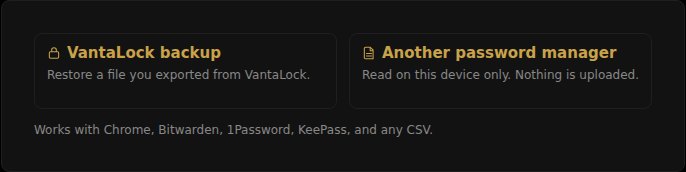
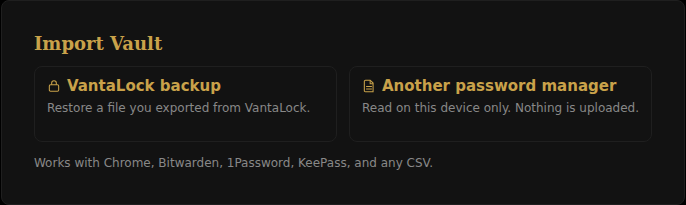
Release VantaLock v1.1.74

diff --git a/tests/electron.e2e.test.js b/tests/electron.e2e.test.js
@@ -21,6 +21,9 @@ const canRunElectronE2E = process.env.RUN_ELECTRON_E2E === '1' &&
       const page = await app.firstWindow();
       const pageErrors = [];
       page.on('pageerror', error => pageErrors.push(error.message));
+      page.on('console', message => {
+        if (message.type() === 'error') pageErrors.push(message.text());
+      });
       await page.waitForSelector('#get-started-btn');
       await page.evaluate(() => {
         localStorage.clear();
@@ -39,6 +42,12 @@ const canRunElectronE2E = process.env.RUN_ELECTRON_E2E === '1' &&
       });
 
       const masterPassword = 'E2EMasterPassword!2026';
+      await page.locator('#create-mp-btn').click();
+      await page.waitForFunction(() =>
+        document.getElementById('mp-error-text')?.style.display === 'block'
+      );
+      expect(await page.locator('#mp-error-text').textContent())
+        .toBe('Please enter a master password.');
       await page.locator('#mp-input').fill(masterPassword);
       await page.locator('#mp-confirm-input').fill(masterPassword);
       await page.locator('#create-mp-btn').click();
@@ -595,6 +604,9 @@ const canRunElectronE2E = process.env.RUN_ELECTRON_E2E === '1' &&
       });
       const reopenedPage = await app.firstWindow();
       reopenedPage.on('pageerror', error => pageErrors.push(error.message));
+      reopenedPage.on('console', message => {
+        if (message.type() === 'error') pageErrors.push(message.text());
+      });
       await reopenedPage.waitForFunction(() => {
         const splash = document.getElementById('splash-overlay');
         const unlock = document.getElementById('unlock-vault-view');
@@ -608,6 +620,14 @@ const canRunElectronE2E = process.env.RUN_ELECTRON_E2E === '1' &&
         const dashboard = document.getElementById('dashboard-view-container');
         return dashboard && !dashboard.classList.contains('hidden');
       });
+      const unlockAnimationSize = await reopenedPage.evaluate(() => {
+        const container = document.getElementById('padlock-anim-container');
+        return {
+          width: container ? container.style.width : '',
+          overlayPresent: Boolean(document.getElementById('unlock-padlock-anim-overlay'))
+        };
+      });
+      expect(unlockAnimationSize).toMatchObject({ width: '160px', overlayPresent: true });
       await reopenedPage.locator('[data-vault="personal"]').click();
       await reopenedPage.evaluate(() => { window.activeVaultType = 'decoy'; });
       await reopenedPage.locator('[data-tool="import"]').evaluate(button => button.click());
@@ -616,7 +636,13 @@ const canRunElectronE2E = process.env.RUN_ELECTRON_E2E === '1' &&
       await reopenedPage.evaluate(() => { window.activeVaultType = 'real'; });
       await reopenedPage.locator('[data-vault="personal"]').click();
       await reopenedPage.locator('[data-tool="import"]').click();
+      expect(await reopenedPage.locator('.external-import-card .setup-title').textContent())
+        .toBe('Import Vault');
+      expect(await reopenedPage.locator('.external-import-card .setup-title')
+        .evaluate(element => getComputedStyle(element).fontSize)).toBe('18px');
       expect(await reopenedPage.locator('.import-choice-card').count()).toBe(2);
+      await reopenedPage.locator('.external-import-card')
+        .screenshot({ path: path.join(workspaceRoot, 'proof_assets/screenshot_import_landing_cards.png') });
       await reopenedPage.locator('[data-import-choice="external"]').click();
       const csvFile = {
         name: 'synthetic-passwords.csv',
@@ -858,6 +884,46 @@ const canRunElectronE2E = process.env.RUN_ELECTRON_E2E === '1' &&
       expect(await reopenedPage.evaluate(() => JSON.parse(
         localStorage.getItem('vantalock_entries_store') || '[]'
       ))).toHaveLength(entriesBeforeImport.length + 2);
+      const backupPath = path.join(profileDirectory, 'roundtrip-backup.json');
+      await app.evaluate(({ dialog }, filePath) => {
+        dialog.showSaveDialog = async () => ({ canceled: false, filePath });
+      }, backupPath);
+      await reopenedPage.evaluate(password => {
+        window.prompt = () => password;
+      }, masterPassword);
+      await reopenedPage.locator('[data-tool="export"]').click();
+      await reopenedPage.locator('#export-json-btn').click();
+      await reopenedPage.waitForFunction(() =>
+        document.getElementById('export-status-msg')?.textContent.includes('exported successfully')
+      );
+      const backupText = fs.readFileSync(backupPath, 'utf8');
+      expect(backupText).not.toContain('synthetic-secret');
+      expect(JSON.parse(backupText)).toMatchObject({
+        cipher: 'AES-256-GCM',
+        kdf: 'Argon2id'
+      });
+      const entriesBeforeBackupImport = await reopenedPage.evaluate(() => JSON.parse(
+        localStorage.getItem('vantalock_entries_store') || '[]'
+      ));
+      await reopenedPage.locator('[data-tool="import"]').click();
+      await reopenedPage.locator('[data-import-choice="backup"]').click();
+      await reopenedPage.locator('#import-file-input').setInputFiles(backupPath);
+      await reopenedPage.evaluate(() => {
+        window.prompt = () => 'E2EMasterPassword!2026';
+      });
+      await reopenedPage.locator('#import-json-btn').click();
+      await reopenedPage.waitForFunction(expectedCount => {
+        const message = document.getElementById('import-status-msg')?.textContent || '';
+        const entries = JSON.parse(localStorage.getItem('vantalock_entries_store') || '[]');
+        return message.includes(`Successfully imported ${expectedCount} entries`) &&
+          entries.length === expectedCount * 2;
+      }, entriesBeforeBackupImport.length, { timeout: 15000 });
+      const roundTripEntries = await reopenedPage.evaluate(() => JSON.parse(
+        localStorage.getItem('vantalock_entries_store') || '[]'
+      ));
+      expect(roundTripEntries).toHaveLength(entriesBeforeBackupImport.length * 2);
+      expect(roundTripEntries.filter(entry => entry.title === 'Synthetic Login')).toHaveLength(2);
+      expect(roundTripEntries.filter(entry => entry.title === 'Synthetic Note')).toHaveLength(2);
       expect(pageErrors).toEqual([]);
     } finally {
       if (app) await app.close();

diff --git a/src/renderer/app.js b/src/renderer/app.js
@@ -7,8 +7,8 @@
       animOverlay.id = 'unlock-padlock-anim-overlay';
       animOverlay.style.cssText = 'position: fixed; top: 0; left: 0; width: 100vw; height: 100vh; background: #0a0a0a; z-index: 999999; display: flex; align-items: center; justify-content: center;';
       animOverlay.innerHTML = `
-        <div id="padlock-anim-container" style="position: relative; width: 120px; height: 120px;">
-          <svg width="120" height="120" viewBox="0 0 120 120" fill="none">
+        <div id="padlock-anim-container" style="position: relative; width: 160px; height: 160px;">
+          <svg width="160" height="160" viewBox="0 0 120 120" fill="none">
             <g id="lock-group" style="transform-origin: 60px 68px;">
               <!-- Shackle -->
               <path id="shackle" d="M 44 58 V 38 C 44 26, 76 26, 76 38 V 50" stroke="#d4a638" stroke-width="8" stroke-linecap="round" fill="none" style="transform-origin: 44px 58px; transition: transform 0.5s cubic-bezier(.34,1.56,.64,1);" />
@@ -1500,16 +1500,29 @@ document.addEventListener('DOMContentLoaded', () => {
       const pwd = mpInput.value;
       const confirmPwd = mpConfirmInput.value;
 
+      if (!pwd) {
+        mpErrorText.textContent = 'Please enter a master password.';
+        mpErrorText.style.display = 'block';
+        return;
+      }
+
       if (pwd !== confirmPwd) {
+        mpErrorText.textContent = 'Passwords do not match.';
         mpErrorText.style.display = 'block';
         return;
       }
       mpErrorText.style.display = 'none';
 
-      const credentials = await window.electronAPI.createVaultCredentials(pwd);
-
-      localStorage.setItem('vantalock_vault_salt', credentials.salt);
-      localStorage.setItem('vantalock_vault_verifier', credentials.verifier);
+      try {
+        const credentials = await window.electronAPI.createVaultCredentials(pwd);
+        localStorage.setItem('vantalock_vault_salt', credentials.salt);
+        localStorage.setItem('vantalock_vault_verifier', credentials.verifier);
+      } catch (error) {
+        console.error('Vault setup could not create master-password credentials:', error);
+        mpErrorText.textContent = 'Vault setup could not be completed. Please try again.';
+        mpErrorText.style.display = 'block';
+        return;
+      }
 
       logActivity('SECURITY: Master password key derived and verifier stored.');
       pendingMasterPassword = pwd;
@@ -2645,17 +2658,26 @@ document.addEventListener('DOMContentLoaded', () => {
           );
           importMsg.style.color = '#10b981';
           importMsg.textContent = result.migrated
-            ? `Imported ${importedEntries.length} entries. A re-encrypted, password-protected backup was downloaded.`
+            ? `Imported ${importedEntries.length} entries. Save the re-encrypted backup when prompted.`
             : `Successfully imported ${importedEntries.length} entries!`;
           logActivity(`IMPORT: Imported ${importedEntries.length} entries.`);
           if (result.migratedBackup) {
-            const blob = new Blob([result.migratedBackup], { type: 'application/json' });
-            const url = URL.createObjectURL(blob);
-            const link = document.createElement('a');
-            link.href = url;
-            link.download = `${file.name.replace(/\.json$/i, '')}-migrated.json`;
-            link.click();
-            URL.revokeObjectURL(url);
+            const migratedFilename = `vantalock-migrated-backup-${new Date().toISOString().slice(0, 10)}.json`;
+            try {
+              const saved = await window.electronAPI.saveEncryptedBackup({
+                contents: result.migratedBackup,
+                filename: migratedFilename
+              });
+              if (!saved.saved && !saved.canceled) {
+                throw new Error('The migrated backup could not be saved.');
+              }
+              if (saved.canceled) {
+                importMsg.textContent = `Imported ${importedEntries.length} entries. Saving the migrated backup was canceled.`;
+              }
+            } catch (saveError) {
+              importMsg.style.color = '#ef4444';
+              importMsg.textContent = `Imported ${importedEntries.length} entries, but the migrated backup could not be saved: ${saveError.message}`;
+            }
           }
         } catch (err) {
           console.error('[Vault Import] Unexpected import failure:', err);
@@ -3205,13 +3227,15 @@ document.addEventListener('DOMContentLoaded', () => {
               salt,
               verifier
             });
-            const blob = new Blob([exportedStr], { type: 'application/json' });
-            const url = URL.createObjectURL(blob);
-            const a = document.createElement('a');
-            a.href = url;
-            a.download = `vantalock-backup-${new Date().toISOString().slice(0, 10)}.json`;
-            a.click();
-            URL.revokeObjectURL(url);
+            const saved = await window.electronAPI.saveEncryptedBackup({
+              contents: exportedStr,
+              filename: `vantalock-backup-${new Date().toISOString().slice(0, 10)}.json`
+            });
+            if (saved.canceled) {
+              exportMsg.textContent = 'Backup export canceled.';
+              return;
+            }
+            if (!saved.saved) throw new Error('The encrypted backup could not be saved.');
 
             exportMsg.style.color = '#10b981';
             exportMsg.textContent = 'Vault backup exported successfully!';

diff --git a/tests/backupFileIpc.test.js b/tests/backupFileIpc.test.js
@@ -1,0 +1,68 @@
+const { MAX_BACKUP_FILE_BYTES, registerBackupFileIpc } = require('../src/main/backupFileIpc');
+
+describe('encrypted backup file IPC', () => {
+  let handler;
+  let dialog;
+  let writeFile;
+  const mainWindow = { id: 'main-window' };
+
+  beforeEach(() => {
+    handler = null;
+    dialog = { showSaveDialog: jest.fn() };
+    writeFile = jest.fn();
+    registerBackupFileIpc({
+      handle: (channel, callback) => {
+        expect(channel).toBe('save-encrypted-backup');
+        handler = callback;
+      }
+    }, {
+      dialog,
+      getMainWindow: () => mainWindow,
+      writeFile
+    });
+  });
+
+  test('saves encrypted contents only after the user chooses a file path', async () => {
+    dialog.showSaveDialog.mockResolvedValue({ canceled: false, filePath: '/tmp/vault.json' });
+    writeFile.mockResolvedValue(undefined);
+
+    await expect(handler({}, {
+      contents: '{"cipher":"AES-256-GCM"}',
+      filename: 'vantalock-backup-2026-10-03.json'
+    })).resolves.toEqual({ canceled: false, saved: true });
+
+    expect(dialog.showSaveDialog).toHaveBeenCalledWith(mainWindow, expect.objectContaining({
+      defaultPath: 'vantalock-backup-2026-10-03.json',
+      filters: [{ name: 'JSON Backup', extensions: ['json'] }]
+    }));
+    expect(writeFile).toHaveBeenCalledWith('/tmp/vault.json', '{"cipher":"AES-256-GCM"}', 'utf8');
+  });
+
+  test('reports cancellation without writing a file', async () => {
+    dialog.showSaveDialog.mockResolvedValue({ canceled: true });
+
+    await expect(handler({}, {
+      contents: '{}',
+      filename: 'vault-backup.json'
+    })).resolves.toEqual({ canceled: true, saved: false });
+    expect(writeFile).not.toHaveBeenCalled();
+  });
+
+  test('validates names and size before opening the save dialog', async () => {
+    await expect(handler({}, { contents: '{}', filename: '../vault.json' }))
+      .rejects.toThrow('Invalid encrypted backup file request.');
+    await expect(handler({}, {
+      contents: 'x'.repeat(MAX_BACKUP_FILE_BYTES + 1),
+      filename: 'vault.json'
+    })).rejects.toThrow('Encrypted backup files must be 50 MB or smaller.');
+    expect(dialog.showSaveDialog).not.toHaveBeenCalled();
+  });
+
+  test('surfaces write failures to the renderer caller', async () => {
+    dialog.showSaveDialog.mockResolvedValue({ canceled: false, filePath: '/tmp/vault.json' });
+    writeFile.mockRejectedValue(new Error('disk full'));
+
+    await expect(handler({}, { contents: '{}', filename: 'vault.json' }))
+      .rejects.toThrow('disk full');
+  });
+});

diff --git a/src/main/backupFileIpc.js b/src/main/backupFileIpc.js
@@ -1,0 +1,30 @@
+const MAX_BACKUP_FILE_BYTES = 50 * 1024 * 1024;
+const BACKUP_FILENAME_PATTERN = /^[a-zA-Z0-9][a-zA-Z0-9._-]{0,127}\.json$/i;
+
+function registerBackupFileIpc(ipcMain, { dialog, getMainWindow, writeFile }) {
+  ipcMain.handle('save-encrypted-backup', async (_event, request) => {
+    if (!request || typeof request !== 'object' || Array.isArray(request) ||
+        typeof request.contents !== 'string' ||
+        typeof request.filename !== 'string' ||
+        !BACKUP_FILENAME_PATTERN.test(request.filename)) {
+      throw new Error('Invalid encrypted backup file request.');
+    }
+    if (Buffer.byteLength(request.contents, 'utf8') > MAX_BACKUP_FILE_BYTES) {
+      throw new Error('Encrypted backup files must be 50 MB or smaller.');
+    }
+
+    const result = await dialog.showSaveDialog(getMainWindow(), {
+      title: 'Save Encrypted Vault Backup',
+      defaultPath: request.filename,
+      filters: [{ name: 'JSON Backup', extensions: ['json'] }]
+    });
+    if (result.canceled) return { canceled: true, saved: false };
+    if (typeof result.filePath !== 'string' || result.filePath.length === 0) {
+      throw new Error('A backup file location was not selected.');
+    }
+    await writeFile(result.filePath, request.contents, 'utf8');
+    return { canceled: false, saved: true };
+  });
+}
+
+module.exports = { MAX_BACKUP_FILE_BYTES, registerBackupFileIpc };

diff --git a/src/main/main.js b/src/main/main.js
@@ -1,8 +1,9 @@
-const { app, BrowserWindow, shell, ipcMain, safeStorage, systemPreferences, clipboard } = require('electron');
+const { app, BrowserWindow, shell, ipcMain, safeStorage, systemPreferences, clipboard, dialog } = require('electron');
 const path = require('path');
 const LockManager = require('../crypto/lockManager');
 const { registerVaultIpc } = require('./vaultIpc');
 const { registerBiometricsIpc } = require('./biometricsIpc');
+const { registerBackupFileIpc } = require('./backupFileIpc');
 
 let mainWindow;
 const lockManager = new LockManager({
@@ -19,6 +20,11 @@ registerBiometricsIpc(ipcMain, {
   platform: process.platform,
   systemPreferences,
   safeStorage
+});
+registerBackupFileIpc(ipcMain, {
+  dialog,
+  getMainWindow: () => mainWindow,
+  writeFile: (...args) => require('fs').promises.writeFile(...args)
 });
 
 function createWindow() {

diff --git a/src/main/preload.js b/src/main/preload.js
@@ -7,6 +7,7 @@ contextBridge.exposeInMainWorld('electronAPI', {
   encryptVaultData: (payload) => ipcRenderer.invoke('encrypt-vault-data', payload),
   decryptVaultData: (payload) => ipcRenderer.invoke('decrypt-vault-data', payload),
   exportEncryptedVault: (payload) => ipcRenderer.invoke('export-encrypted-vault', payload),
+  saveEncryptedBackup: (request) => ipcRenderer.invoke('save-encrypted-backup', request),
   importEncryptedVault: (payload) => ipcRenderer.invoke('import-encrypted-vault', payload),
   parsePasswordImportFile: (request) => ipcRenderer.invoke('parse-password-import-file', request),
   lockManagerActivity: () => ipcRenderer.invoke('lock-manager-activity'),

diff --git a/tests/passwordImportCore.test.js b/tests/passwordImportCore.test.js
@@ -150,5 +150,8 @@ describe('password import mapping and preview', () => {
     expect(existing).toEqual([{ id: 'existing' }]);
     expect(() => persistImport(existing, Array.from({ length: 5001 }, () => ({})), persist))
       .toThrow('This import would exceed the 5,000-entry limit.');
+    expect(() => persistImport(Array.from({ length: 5000 }, () => ({})), [{}], persist))
+      .toThrow('This import would exceed the 5,000-entry limit.');
+    expect(persist).toHaveBeenCalledTimes(1);
   });
 });

diff --git a/src/renderer/passwordImportCore.js b/src/renderer/passwordImportCore.js
@@ -136,7 +136,7 @@
     if (!Array.isArray(existingEntries) || !Array.isArray(importedEntries)) {
       throw new TypeError('Vault entries must be arrays');
     }
-    if (importedEntries.length > maxEntries) {
+    if (existingEntries.length + importedEntries.length > maxEntries) {
       throw new Error('This import would exceed the 5,000-entry limit.');
     }
     if (typeof persistEntries !== 'function') throw new TypeError('A persistence function is required');

diff --git a/src/renderer/passwordImportUI.js b/src/renderer/passwordImportUI.js
@@ -51,6 +51,7 @@
     function showLanding() {
       container.innerHTML = `
         <section class="external-import-card">
+          <h3 class="setup-title" style="font-size: 18px;">Import Vault</h3>
           <div class="import-choice-grid">
             <button type="button" class="import-choice-card" data-import-choice="backup">
               <span class="import-choice-title">
